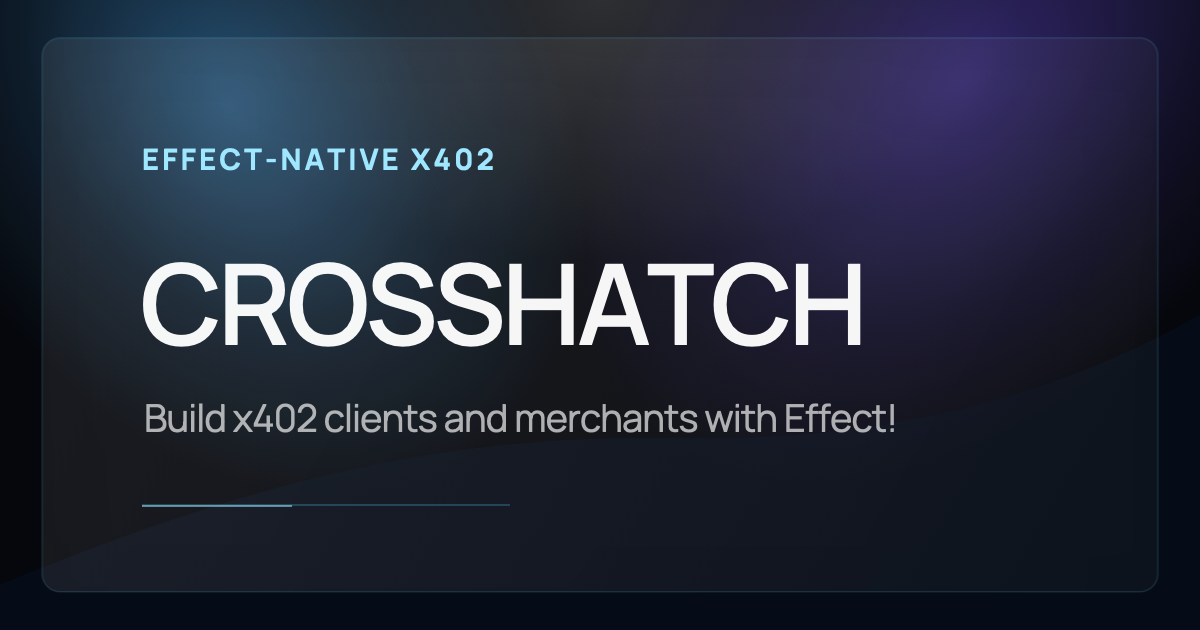
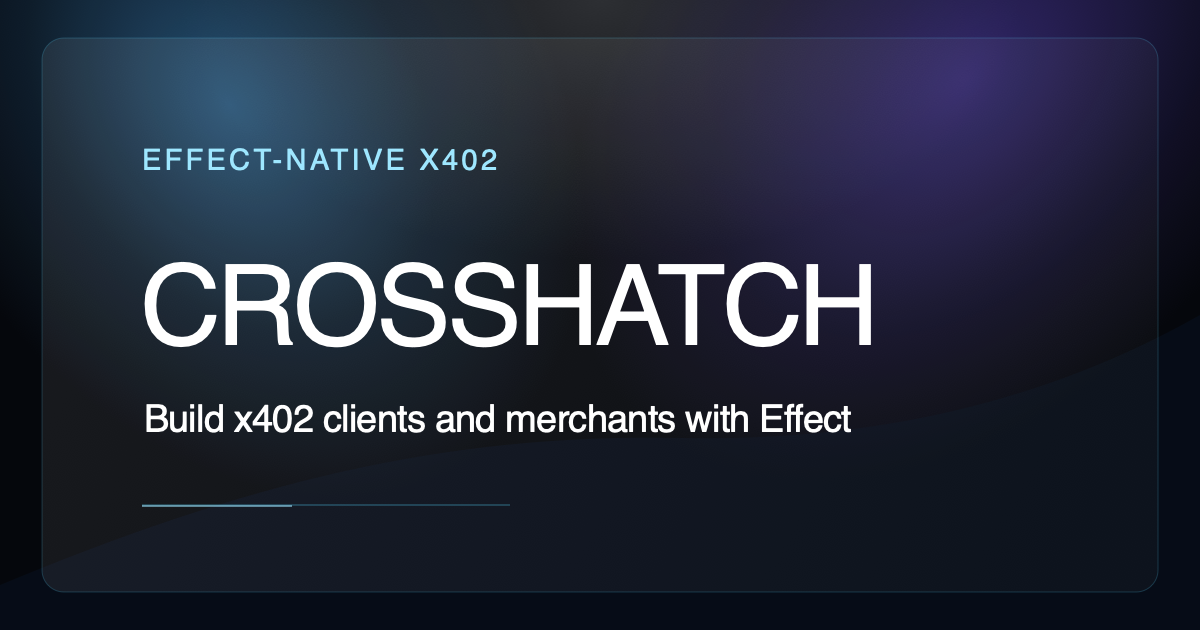
fix lucide-related docs perf issue (#111)

diff --git a/docs/src/CodingAgentsButton.tsx b/docs/src/CodingAgentsButton.tsx
@@ -1,7 +1,9 @@
 "use client"
 
-import { Bot, Check, Copy, X } from "lucide-react"
+import { Bot, Check, Copy, X } from "lucide-static"
 import * as React from "react"
+
+import { LucideIcon } from "./LucideIcon"
 
 const prompts = [
   {
@@ -75,21 +77,22 @@ export const CodingAgentsButton = (props: {
         onClick={() => setOpen(true)}
       >
         Coding Agents
-        <Bot className="ml-2 size-4 stroke-1" />
+        <LucideIcon className="ml-2 size-4 stroke-1" svg={Bot} />
       </button>
       {open ? (
         <div
           className="crosshatch-agents-modal-backdrop"
           role="presentation"
           style={{ "--crosshatch-agents-modal-top-offset": `${modalTopOffset}px` } as React.CSSProperties}
-          onClick={() => setOpen(false)}
+          onClick={(event) => {
+            if (event.target === event.currentTarget) setOpen(false)
+          }}
         >
           <div
             aria-modal="true"
             className="crosshatch-agents-modal"
             role="dialog"
             aria-labelledby="crosshatch-agents-modal-title"
-            onClick={(event) => event.stopPropagation()}
           >
             <button
               aria-label="Close coding agents modal"
@@ -97,7 +100,7 @@ export const CodingAgentsButton = (props: {
               type="button"
               onClick={() => setOpen(false)}
             >
-              <X />
+              <LucideIcon svg={X} />
             </button>
             <p className="crosshatch-code-kicker">Coding Agents</p>
             <h2 id="crosshatch-agents-modal-title">Give agents the right context</h2>
@@ -111,12 +114,12 @@ export const CodingAgentsButton = (props: {
                 {copied === "mcp" ? (
                   <>
                     Copied
-                    <Check />
+                    <LucideIcon svg={Check} />
                   </>
                 ) : (
                   <>
                     Copy URL
-                    <Copy />
+                    <LucideIcon svg={Copy} />
                   </>
                 )}
               </button>
@@ -135,12 +138,12 @@ export const CodingAgentsButton = (props: {
                     {copied === prompt.value ? (
                       <>
                         Copied
-                        <Check />
+                        <LucideIcon svg={Check} />
                       </>
                     ) : (
                       <>
                         Copy prompt
-                        <Copy />
+                        <LucideIcon svg={Copy} />
                       </>
                     )}
                   </strong>

diff --git a/docs/src/LucideIcon.tsx b/docs/src/LucideIcon.tsx
@@ -1,0 +1,8 @@
+export const LucideIcon = (props: { readonly className?: string | undefined; readonly svg: string }) => (
+  <span
+    aria-hidden="true"
+    dangerouslySetInnerHTML={{
+      __html: props.className ? props.svg.replace('class="', `class="${props.className} `) : props.svg,
+    }}
+  />
+)

diff --git a/docs/alchemy.run.ts b/docs/alchemy.run.ts
@@ -4,6 +4,8 @@ import * as GitHub from "alchemy/GitHub"
 import { Effect, Layer } from "effect"
 import { docs } from "liminal-util/alchemicals/docs"
 
+import PackageJson from "./package.json" with { type: "json" }
+
 export default Alchemy.Stack(
   "crosshatch-docs",
   {
@@ -11,7 +13,7 @@ export default Alchemy.Stack(
     providers: Layer.mergeAll(Cloudflare.providers(), GitHub.providers()),
   },
   docs({
-    domain: "crosshatch.dev",
+    domain: PackageJson.name,
     devPort: 4382,
   }).pipe(Effect.asVoid),
 )

diff --git a/otel/alchemy.run.ts b/otel/alchemy.run.ts
@@ -5,6 +5,8 @@ import { Config, Effect, Layer } from "effect"
 import { PrPreviewComment } from "liminal-util/alchemicals/PrComment"
 import { WorkerConfig } from "liminal-util/alchemicals/WorkerConfig"
 
+import PackageJson from "./package.json" with { type: "json" }
+
 export default Alchemy.Stack(
   "crosshatch-otel",
   {
@@ -13,7 +15,7 @@ export default Alchemy.Stack(
   },
   Effect.gen(function* () {
     const base = yield* WorkerConfig({
-      domain: "otel.crosshatch.dev",
+      domain: PackageJson.name,
     })
     const ALCHEMY_STAGE = yield* Alchemy.Stage
     const { url } = yield* Cloudflare.Worker("Entry", {

diff --git a/facilitator/FacilitatorWorker.ts b/facilitator/FacilitatorWorker.ts
@@ -9,6 +9,7 @@ import { domain } from "liminal-util/alchemicals/WorkerConfig"
 
 import { FacilitatorEnv } from "./FacilitatorEnv.ts"
 import { FacilitatorLive } from "./FacilitatorLive/FacilitatorLive.ts"
+import PackageJson from "./package.json" with { type: "json" }
 import * as Prelude from "./Prelude.ts"
 
 export default class FacilitatorWorker extends Cloudflare.Worker<FacilitatorWorker>()(
@@ -17,7 +18,7 @@ export default class FacilitatorWorker extends Cloudflare.Worker<FacilitatorWork
   Effect.gen(function* () {
     return {
       main: import.meta.url,
-      domain: yield* domain("facilitator.crosshatch.dev"),
+      domain: yield* domain(PackageJson.name),
       observability: { enabled: true },
       placement: { mode: "smart" },
       compatibility: {

diff --git a/oxlint.config.ts b/oxlint.config.ts
@@ -4,6 +4,6 @@ import { baseConfig, rest } from "./konfik/oxlint/baseConfig.ts"
 import { defineReactConfig } from "./konfik/oxlint/defineReactConfig.ts"
 
 export default defineConfig({
-  extends: [baseConfig, defineReactConfig(["liminal/examples/*/app/**/*"])],
+  extends: [baseConfig, defineReactConfig(["docs/**/*", "liminal/examples/*/app/**/*"])],
   ...rest(),
 })